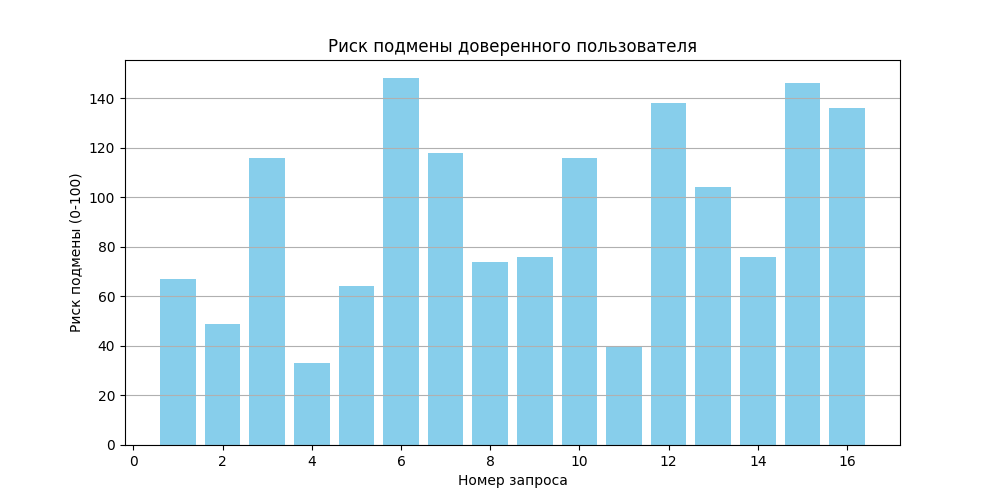
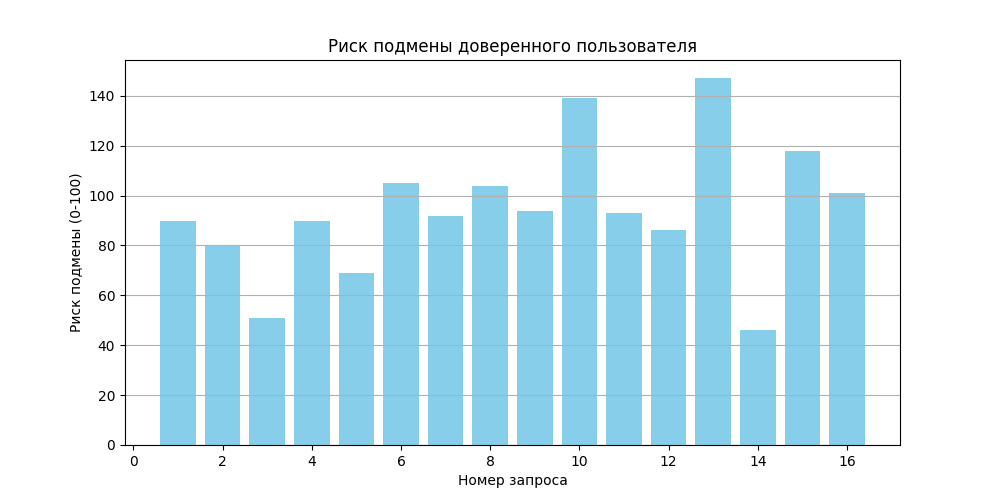
Make the application accessible and fix host restrictions
Update Django settings to allow connections from localhost and Replit domains, and add static files.

Replit-Commit-Author: Agent
Replit-Commit-Session-Id: 9b8e7539-1672-46e6-8423-10d50d8a9d51
Replit-Commit-Checkpoint-Type: full_checkpoint
Replit-Commit-Event-Id: db6626ef-0501-47bc-9746-83786b1e93a0
Replit-Commit-Screenshot-Url: https://storage.googleapis.com/screenshot-production-us-central1/f6c613f2-02ee-4a75-b004-987650894fc1/9b8e7539-1672-46e6-8423-10d50d8a9d51/ZUYnKd6
Replit-Helium-Checkpoint-Created: true

Changed region(s): [[0.093, 0.15, 0.899, 0.75]]

diff --git a/django_project/settings.py b/django_project/settings.py
@@ -25,9 +25,10 @@ SECRET_KEY = 'django-insecure-4ju2n@$f9d0c=h)_g0lbb%k9&@rf(xa$d$g$&5ri$uf)*gev^4
 # SECURITY WARNING: don't run with debug turned on in production!
 DEBUG = True
 
-ALLOWED_HOSTS = os.environ["REPLIT_DOMAINS"].split(',')
+_replit_domains = os.environ.get("REPLIT_DOMAINS", "").split(',') if os.environ.get("REPLIT_DOMAINS") else []
+ALLOWED_HOSTS = ["localhost", "127.0.0.1", "0.0.0.0", *_replit_domains]
 CSRF_TRUSTED_ORIGINS = [
-    "https://" + domain for domain in os.environ["REPLIT_DOMAINS"].split(',')
+    "https://" + domain for domain in _replit_domains if domain
 ]
 
 # Application definition
